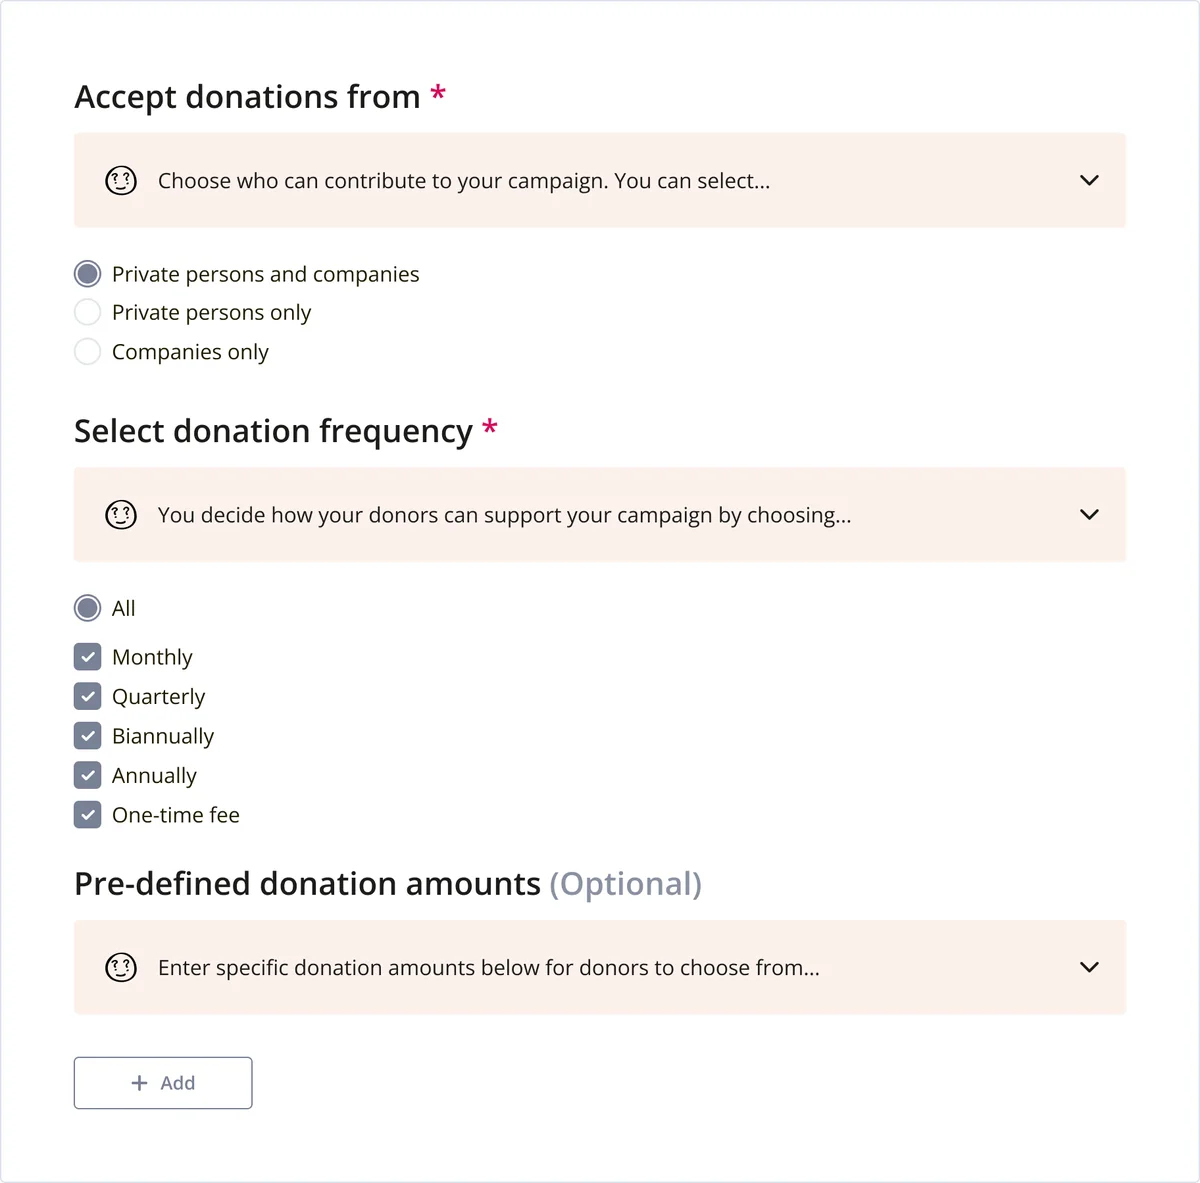
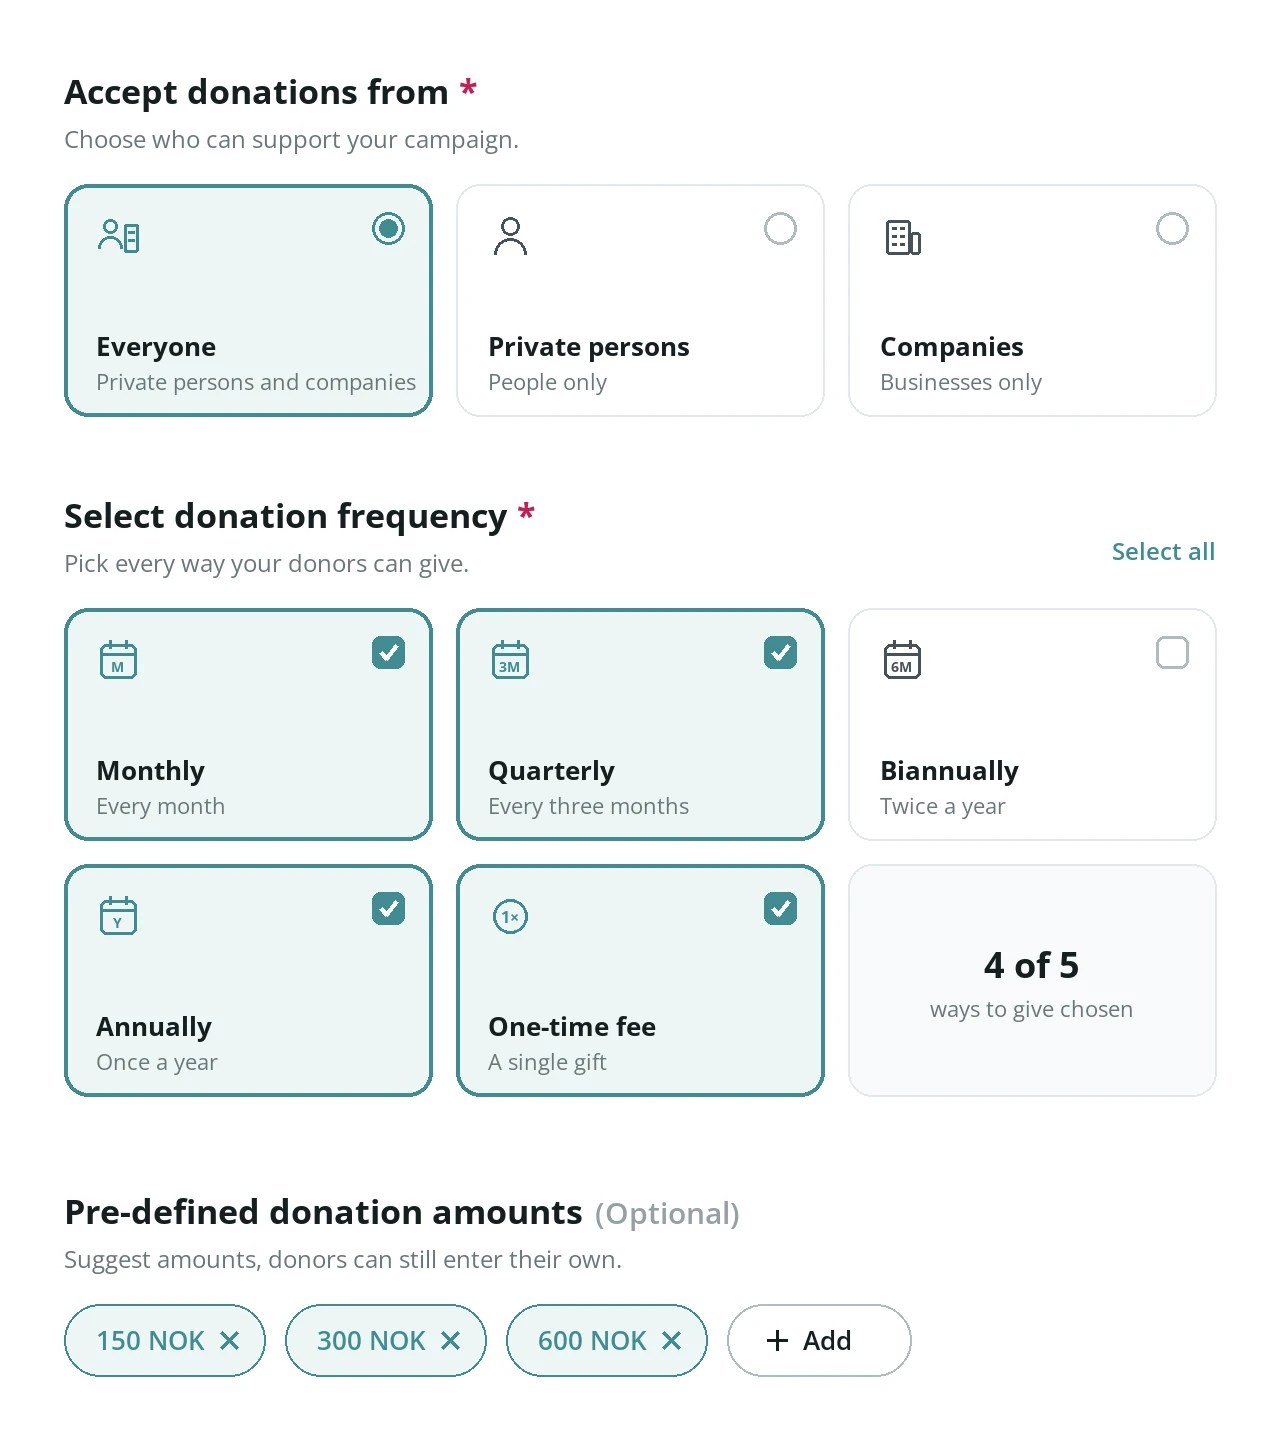
Sport Guardian: campaign builder donation settings as choice cards with radio buttons and checkboxes; reference 26 in inspiration and Notion

diff --git a/SportGuardian.html b/SportGuardian.html
@@ -158,7 +158,7 @@ h1{font-size:clamp(34px,5.6vw,80px);line-height:1.03;letter-spacing:-.045em;max-
 .cards>img{border-radius:8px;box-shadow:0 1px 2px rgba(0,0,0,.06),0 18px 36px -18px rgba(20,60,64,.4)}
 .cards>:nth-child(2){margin-top:12%}.cards>:nth-child(3){margin-top:24%}
 .el{width:100%;max-width:520px;border-radius:8px;box-shadow:0 1px 2px rgba(0,0,0,.06),0 18px 36px -18px rgba(20,60,64,.4)}
-.el.c{max-width:400px}
+.el.c{max-width:520px}
 .el.d{max-width:360px;border-radius:12px}
 
 /* where the money comes from: flows as fields of thin vertical lines on deep teal (her reference 24) */
@@ -309,7 +309,7 @@ footer .wrap{display:flex;justify-content:space-between;gap:16px;flex-wrap:wrap}
 
 <figure class="c1-4 rv"><div class="panel t r45"><img class="el d" src="assets/work/sport-guardian/el-donors.webp" alt="Our donors: tabs for private persons and companies, names with the time they gave, and a greeting from one donor." width="820" height="1078" loading="lazy"></div><figcaption>Donors can leave their name and a greeting, or give anonymously.</figcaption></figure>
 
-<figure class="c5-12 rv" style="--d:.1s"><div class="panel"><img class="el c" src="assets/work/sport-guardian/el-create-donations.webp" alt="From the campaign builder: Accept donations from private persons and companies, and Select donation frequency, from monthly to a one-time fee, each with a short hint." width="1200" height="1183" loading="lazy"></div><figcaption>For the club: who can give and how often, with a hint under every choice.</figcaption></figure>
+<figure class="c5-12 rv" style="--d:.1s"><div class="panel"><img class="el c" src="assets/work/sport-guardian/el-create-donations.webp" alt="From the campaign builder, as choice cards: Accept donations from, with Everyone chosen over Private persons and Companies; Select donation frequency, with Monthly, Quarterly, Annually and One-time fee checked and Biannually not; and suggested amounts of 150, 300 and 600 NOK with an Add button." width="1280" height="1448" loading="lazy"></div><figcaption>For the club: who can give and how often, with a hint under every choice.</figcaption></figure>
 
 <figure class="c1-12 rv scroll"><div class="panel"><div class="browser" style="max-width:1000px"><div class="bar" aria-hidden="true"><i></i><i></i><i></i><span>admin.supporter.no</span></div><div class="vp fx" style="--to:-53.3%;--t:30s;--hd:4.514%"><img class="hd" src="assets/work/sport-guardian/screen-statistik-head.webp" alt="" width="1440" height="65" loading="lazy"><img src="assets/work/sport-guardian/screen-statistik-body.webp" alt="The campaign dashboard in the admin panel: the title Become a sports guardian; a progress card with 360 000 NOK raised, a 500 000 NOK goal, 140 000 still needed, 60 days left and the end date, a full-width bar at 72% with marks for the critical minimum, enough and the goal; a dark Sankey card of where the money comes from with a tooltip and a legend; and the donor table with search, Filter and Export, ten rows and pagination." width="1440" height="1789" loading="lazy"></div></div></div><figcaption style="max-width:64ch">The campaign dashboard: the goal and the days left at the top, where the money comes from, and every donor with refunds and pauses in one table.</figcaption></figure>
       <div class="c1-12 rv charts">

diff --git a/inspiration.html b/inspiration.html
@@ -342,6 +342,20 @@ ol.q{margin:0;padding-left:22px;display:flex;flex-direction:column;gap:10px;font
       <figure><img src="inspiration/25-orbit-dashboard.png" alt="A dark analytics dashboard: a header card with three key numbers, a teal Sankey from device to gender to age group with a tooltip, and a campaign table with search, Filter and Import above its column headers." loading="lazy"><figcaption>25 · Orbit Dashboard</figcaption></figure>
     </div>
   </article>
+
+  <article class="ref">
+    <div class="text">
+      <span class="label">Sport Guardian · Campaign builder</span>
+      <span class="src">Choice cards (source not given)</span>
+      <ul>
+        <li>A grid of cards with a line icon, a bold title and a one-line description; chosen cards get an outline.</li>
+        <li><b>Borrow:</b> the donation settings of the campaign builder, as cards with radio buttons or checkboxes.</li>
+      </ul>
+    </div>
+    <div class="shots">
+      <figure><img src="inspiration/26-choice-cards.png" alt="A dark form asking What do you need help with, with six cards such as Website design and UX Research, each with a line icon, a title and a short line; two cards are outlined as chosen." loading="lazy"><figcaption>26 · Choice cards</figcaption></figure>
+    </div>
+  </article>
 </section>
 
 <section aria-labelledby="h-more">

diff --git a/tools/sport-guardian/create_form.py b/tools/sport-guardian/create_form.py
@@ -1,0 +1,102 @@
+"""The campaign builder's donation settings, redrawn as choice cards (2026-10-14, her request, after her reference 26):
+every option is a card with a line icon, a bold title and a one-line description; who can give is a single choice
+(radio button in the card's corner), how often is a multiple choice (checkbox). Light, in the admin's colours and
+Open Sans, from her own form (Figma 3:73342: Accept donations from, Select donation frequency, Pre-defined amounts).
+Run: python create_form.py -> ../../assets/work/sport-guardian/el-create-donations.webp
+"""
+import os, math
+from PIL import Image, ImageDraw, ImageFilter
+from stat_cards import FONT, TEAL
+HERE = os.path.dirname(os.path.abspath(__file__)); OUT = os.path.join(HERE, '..', '..', 'assets', 'work', 'sport-guardian')
+S = 2
+W, H = 640, 1000
+INK, MUT, LINE, CARD, SEL = (22, 30, 32), (106, 118, 122), (226, 232, 234), (255, 255, 255), (238, 246, 246)
+REQ = (196, 30, 82)
+im = Image.new('RGB', (W*S, H*S), (255, 255, 255)); d = ImageDraw.Draw(im)
+P = lambda *v: tuple(int(x*S) for x in v)
+f = lambda w, n: FONT(w, n*S)
+def text(x, y, t, font, fill=INK, anchor='la'): d.text(P(x, y), t, font=font, fill=fill, anchor=anchor)
+def ln(pts, w=1.6, col=INK): d.line([P(*p) for p in pts], fill=col, width=max(1, int(w*S)), joint='curve')
+def circ(cx, cy, r, w=1.6, col=INK, fill=None): d.ellipse(P(cx-r, cy-r, cx+r, cy+r), outline=col, width=max(1, int(w*S)), fill=fill)
+def rect(x0, y0, x1, y1, r, w=1.6, col=INK): d.rounded_rectangle(P(x0, y0, x1, y1), r*S, outline=col, width=max(1, int(w*S)))
+
+# line icons, 22 pt, drawn in the card's ink
+def i_person(x, y, c):
+    circ(x+11, y+7, 4.5, col=c); d.arc(P(x+3, y+13, x+19, y+29), 180, 360, fill=c, width=int(1.6*S))
+def i_company(x, y, c):
+    rect(x+3, y+4, x+15, y+21, 1.5, col=c); rect(x+15, y+10, x+20, y+21, 1.5, col=c)
+    for yy in (8, 12, 16): ln([(x+6, y+yy), (x+8, y+yy)], col=c); ln([(x+10, y+yy), (x+12, y+yy)], col=c)
+def i_both(x, y, c):
+    circ(x+7, y+7, 3.5, col=c); d.arc(P(x+1, y+12, x+13, y+24), 180, 360, fill=c, width=int(1.6*S))
+    rect(x+14, y+6, x+21, y+20, 1.2, col=c); ln([(x+16, y+10), (x+19, y+10)], col=c); ln([(x+16, y+14), (x+19, y+14)], col=c)
+def i_cal(label):
+    def draw(x, y, c):
+        rect(x+2, y+4, x+20, y+21, 3, col=c); ln([(x+2, y+9), (x+20, y+9)], col=c); ln([(x+7, y+2), (x+7, y+6)], col=c); ln([(x+15, y+2), (x+15, y+6)], col=c)
+        text(x+11, y+15.5, label, f('Bold', 7), c, 'mm')
+    return draw
+def i_once(x, y, c):
+    circ(x+11, y+12, 8.5, col=c); text(x+11, y+12, '1×', f('Bold', 8), c, 'mm')
+
+def choice(x, y, w, h, icon, title, sub, on, kind):
+    c = TEAL if on else (70, 82, 86)
+    if on:
+        d.rounded_rectangle(P(x, y, x+w, y+h), 12*S, fill=SEL, outline=TEAL, width=2*S)
+    else:
+        d.rounded_rectangle(P(x, y, x+w, y+h), 12*S, fill=CARD, outline=LINE, width=S)
+    icon(x+16, y+14, c)
+    text(x+16, y+h-30, title, f('Bold', 13), INK, 'ls'); text(x+16, y+h-13, sub, f('Regular', 11), MUT, 'ls')
+    cx, cy = x+w-22, y+22
+    if kind == 'radio':
+        circ(cx, cy, 8, w=1.6, col=TEAL if on else (176, 186, 190))
+        if on: d.ellipse(P(cx-4.5, cy-4.5, cx+4.5, cy+4.5), fill=TEAL)
+    else:
+        if on:
+            d.rounded_rectangle(P(cx-8, cy-8, cx+8, cy+8), 4*S, fill=TEAL)
+            ln([(cx-4, cy), (cx-1, cy+3.5), (cx+4.5, cy-3.5)], w=2, col=(255, 255, 255))
+        else:
+            rect(cx-8, cy-8, cx+8, cy+8, 4, col=(176, 186, 190))
+
+def heading(y, t, req=True, opt=False):
+    text(32, y, t, f('Bold', 17), INK, 'ls'); tw = d.textlength(t, font=f('Bold', 17))/S
+    if req: text(32+tw+5, y, '*', f('Bold', 17), REQ, 'ls')
+    if opt: text(32+tw+6, y, '(Optional)', f('SemiBold', 15), (150, 160, 164), 'ls')
+def hint(y, t): text(32, y, t, f('Regular', 12), MUT, 'ls')
+
+# 1. who can give: one choice
+heading(52, 'Accept donations from'); hint(74, 'Choose who can support your campaign.')
+cw, ch, g = (W-64-2*12)/3, 116, 12
+opts = [(i_both, 'Everyone', 'Private persons and companies', True), (i_person, 'Private persons', 'People only', False), (i_company, 'Companies', 'Businesses only', False)]
+for k, (ic, t, sub, on) in enumerate(opts):
+    choice(32+k*(cw+g), 92, cw, ch, ic, t, sub, on, 'radio')
+
+# 2. how often: several choices
+heading(264, 'Select donation frequency'); hint(286, 'Pick every way your donors can give.')
+text(W-32, 280, 'Select all', f('SemiBold', 12), TEAL, 'rs')
+freqs = [(i_cal('M'), 'Monthly', 'Every month', True), (i_cal('3M'), 'Quarterly', 'Every three months', True),
+         (i_cal('6M'), 'Biannually', 'Twice a year', False), (i_cal('Y'), 'Annually', 'Once a year', True),
+         (i_once, 'One-time fee', 'A single gift', True)]
+for k, (ic, t, sub, on) in enumerate(freqs):
+    row, col = divmod(k, 3)
+    choice(32+col*(cw+g), 304+row*(ch+g), cw, ch, ic, t, sub, on, 'check')
+# a card that says how many are chosen, in the empty sixth cell
+x6, y6 = 32+2*(cw+g), 304+ch+g
+d.rounded_rectangle(P(x6, y6, x6+cw, y6+ch), 12*S, fill=(247, 249, 250), outline=LINE, width=S)
+text(x6+cw/2, y6+ch/2-8, '4 of 5', f('Bold', 18), INK, 'mm'); text(x6+cw/2, y6+ch/2+14, 'ways to give chosen', f('Regular', 11), MUT, 'mm')
+
+# 3. suggested amounts: chips
+heading(612, 'Pre-defined donation amounts', req=False, opt=True); hint(634, 'Suggest amounts, donors can still enter their own.')
+x = 32
+for a in ['150 NOK', '300 NOK', '600 NOK']:
+    tw = d.textlength(a, font=f('SemiBold', 13))/S; w = tw+46
+    d.rounded_rectangle(P(x, 652, x+w, 688), 18*S, fill=SEL, outline=TEAL, width=S)
+    text(x+16, 670, a, f('SemiBold', 13), TEAL, 'lm')
+    ln([(x+w-22, 666), (x+w-14, 674)], w=1.6, col=TEAL); ln([(x+w-22, 674), (x+w-14, 666)], w=1.6, col=TEAL)
+    x += w+10
+d.rounded_rectangle(P(x, 652, x+92, 688), 18*S, outline=(176, 186, 190), width=S)
+ln([(x+20, 670), (x+30, 670)], col=INK); ln([(x+25, 665), (x+25, 675)], col=INK); text(x+38, 670, 'Add', f('SemiBold', 13), INK, 'lm')
+
+Hc = 724
+im = im.crop((0, 0, W*S, Hc*S))
+im = im.resize((W*2 if S != 2 else W*S, Hc*2 if S != 2 else Hc*S), Image.LANCZOS)
+im.save(os.path.join(OUT, 'el-create-donations.webp'), quality=90)
+print('ok', im.size)

diff --git a/sportguardian.md b/sportguardian.md
@@ -67,3 +67,5 @@ Then (2026-10-14, her request): the Sankey card is the dark one again, deep teal
 Then (2026-10-14, her request, after her line-field reference): the campaign title and its line ("Swimming for everyone · Fjordby Svømmeklubb · started 15 Sep 2024") moved out of the card to the top of the page, under Back to campaigns; the card is one full-width progress: on top RAISED 360 000 NOK (+18% this week), GOAL 500 000, STILL NEEDED 140 000, DAYS LEFT 60 of 90, ENDS 13 Dec 2024 and a large 72% of the goal; then a bar of 300 thin vertical lines across the card (raised teal to green, the rest faint grey, a dark mark where the raised amount ends); under it marks with a dot and a label: Critical minimum 150 000 (fees for 30 children), Enough 300 000 (the season is covered), Goal 500 000 (gear and travel too). The thresholds are made up for the mockup.
 Then (2026-10-14, her requests): the marks under the progress bar run down to their labels' baseline, the label beside the line; the donor table shows ten rows and a footer with "Showing 1–10 of 1 200 donors", "10 per page" and pagination (1, 2, 3 … 120). The black strip under the table is gone (the drawing canvas was shorter than the dashboard).
 Then (2026-10-14, her request): under the bar the note comes first and the name after it ("150 000 · fees for 30 children  Critical minimum", "300 000 · the season is covered  Enough"), same type; the Goal mark is removed.
+Campaign builder (2026-10-14, her request, after her reference 26, choice cards): the donation settings are redrawn by [`tools/sport-guardian/create_form.py`](tools/sport-guardian/create_form.py) as cards with a line icon, a bold title and a one-line description. Accept donations from is a single choice with a radio button in each card's corner (Everyone, chosen; Private persons; Companies); Select donation frequency is a multiple choice with checkboxes (Monthly, Quarterly, Annually and One-time fee checked, Biannually not), "Select all" on the right and a sixth cell "4 of 5 ways to give chosen"; Pre-defined donation amounts (Optional) are chips, 150, 300 and 600 NOK with a remove cross, and Add. Chosen cards are outlined in teal on a pale teal ground.
+

diff --git a/inspiration.md b/inspiration.md
@@ -120,6 +120,10 @@ Her brief for `SportGuardian.html`: a first screen in a rectangle of the thumbna
 - One header card with the title on the left and the key numbers on the right; a Sankey card with a date range and controls in its header, labels as "name - share (amount)", a tooltip and the column names along the bottom; a table card with search, Filter and Import in its header and the column headers in the same card.
 - To borrow: **the Sport Guardian admin dashboard**, rebuilt in this order, keeping her dotted flows.
 
+**Choice cards (source not given)** · `26-choice-cards.png` (sent 2026-10-14)
+- A question with a short line, then a grid of cards: a line icon, a bold title and a one-line description; the chosen cards get a light outline.
+- To borrow: **the campaign builder's donation settings** on the Sport Guardian page, as cards with radio buttons or checkboxes.
+
 ---
 
 ## 3. Also saved in Notion, not yet annotated
